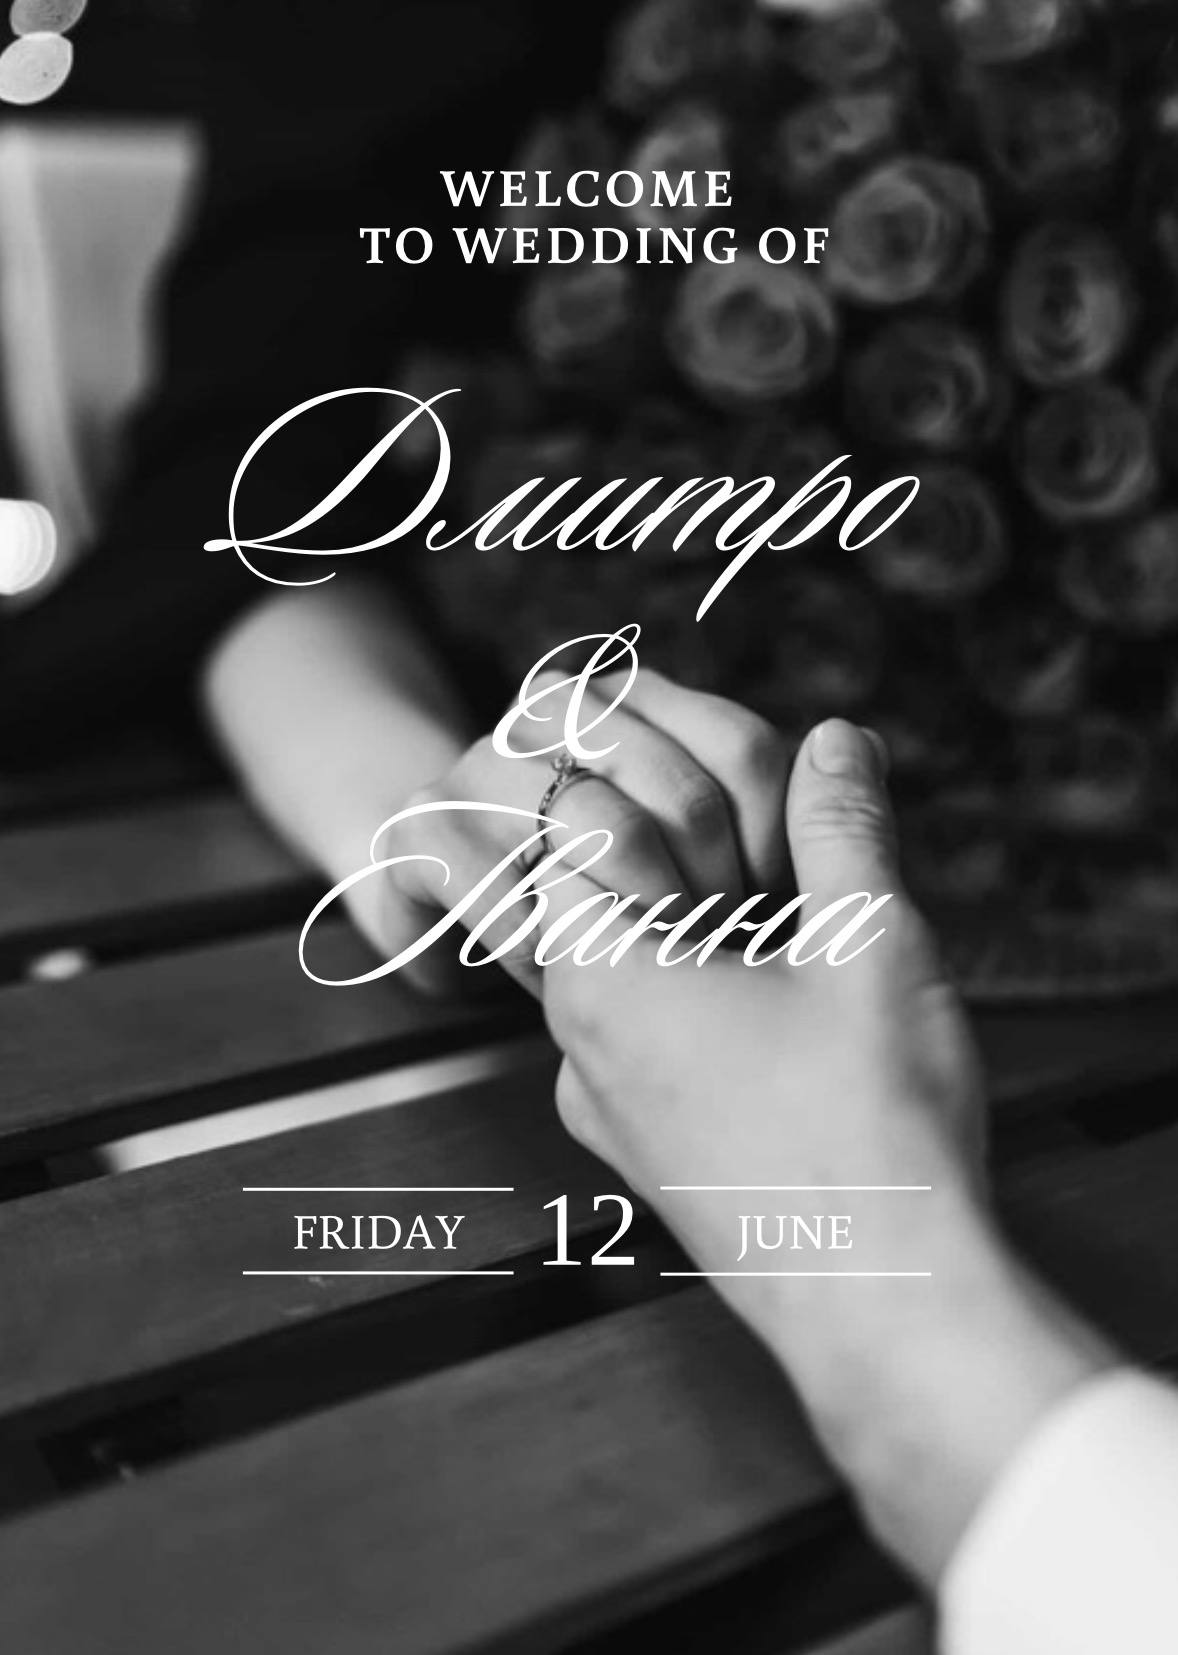
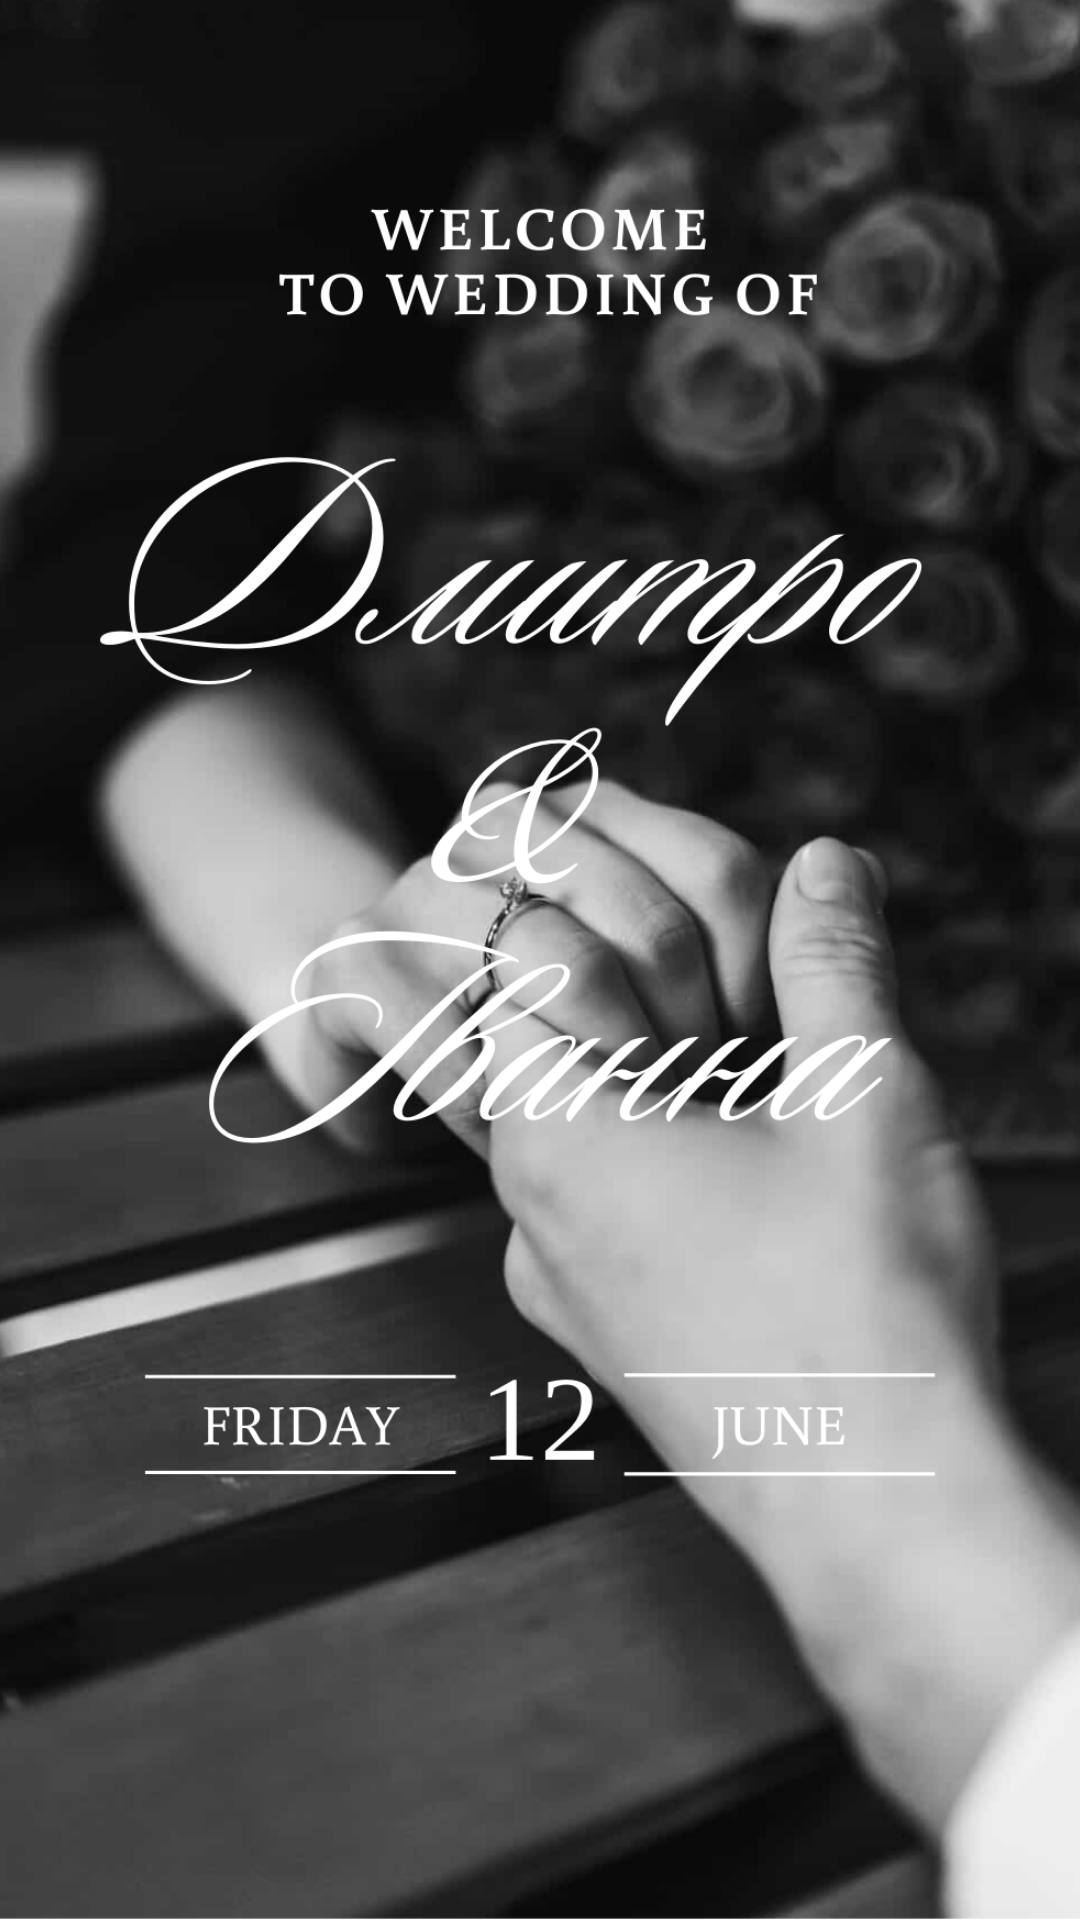
17

diff --git a/index.html b/index.html
@@ -77,7 +77,7 @@ body{
   flex-direction:column;
   align-items:center;
   justify-content:flex-start;
-  padding:clamp(80px,20vw,130px) clamp(20px,6vw,48px) clamp(16px,4vw,32px);
+  padding:clamp(110px,26vw,160px) clamp(20px,6vw,48px) clamp(16px,4vw,32px);
   text-align:center;
   gap:clamp(12px,3vw,22px);
   pointer-events:none;
